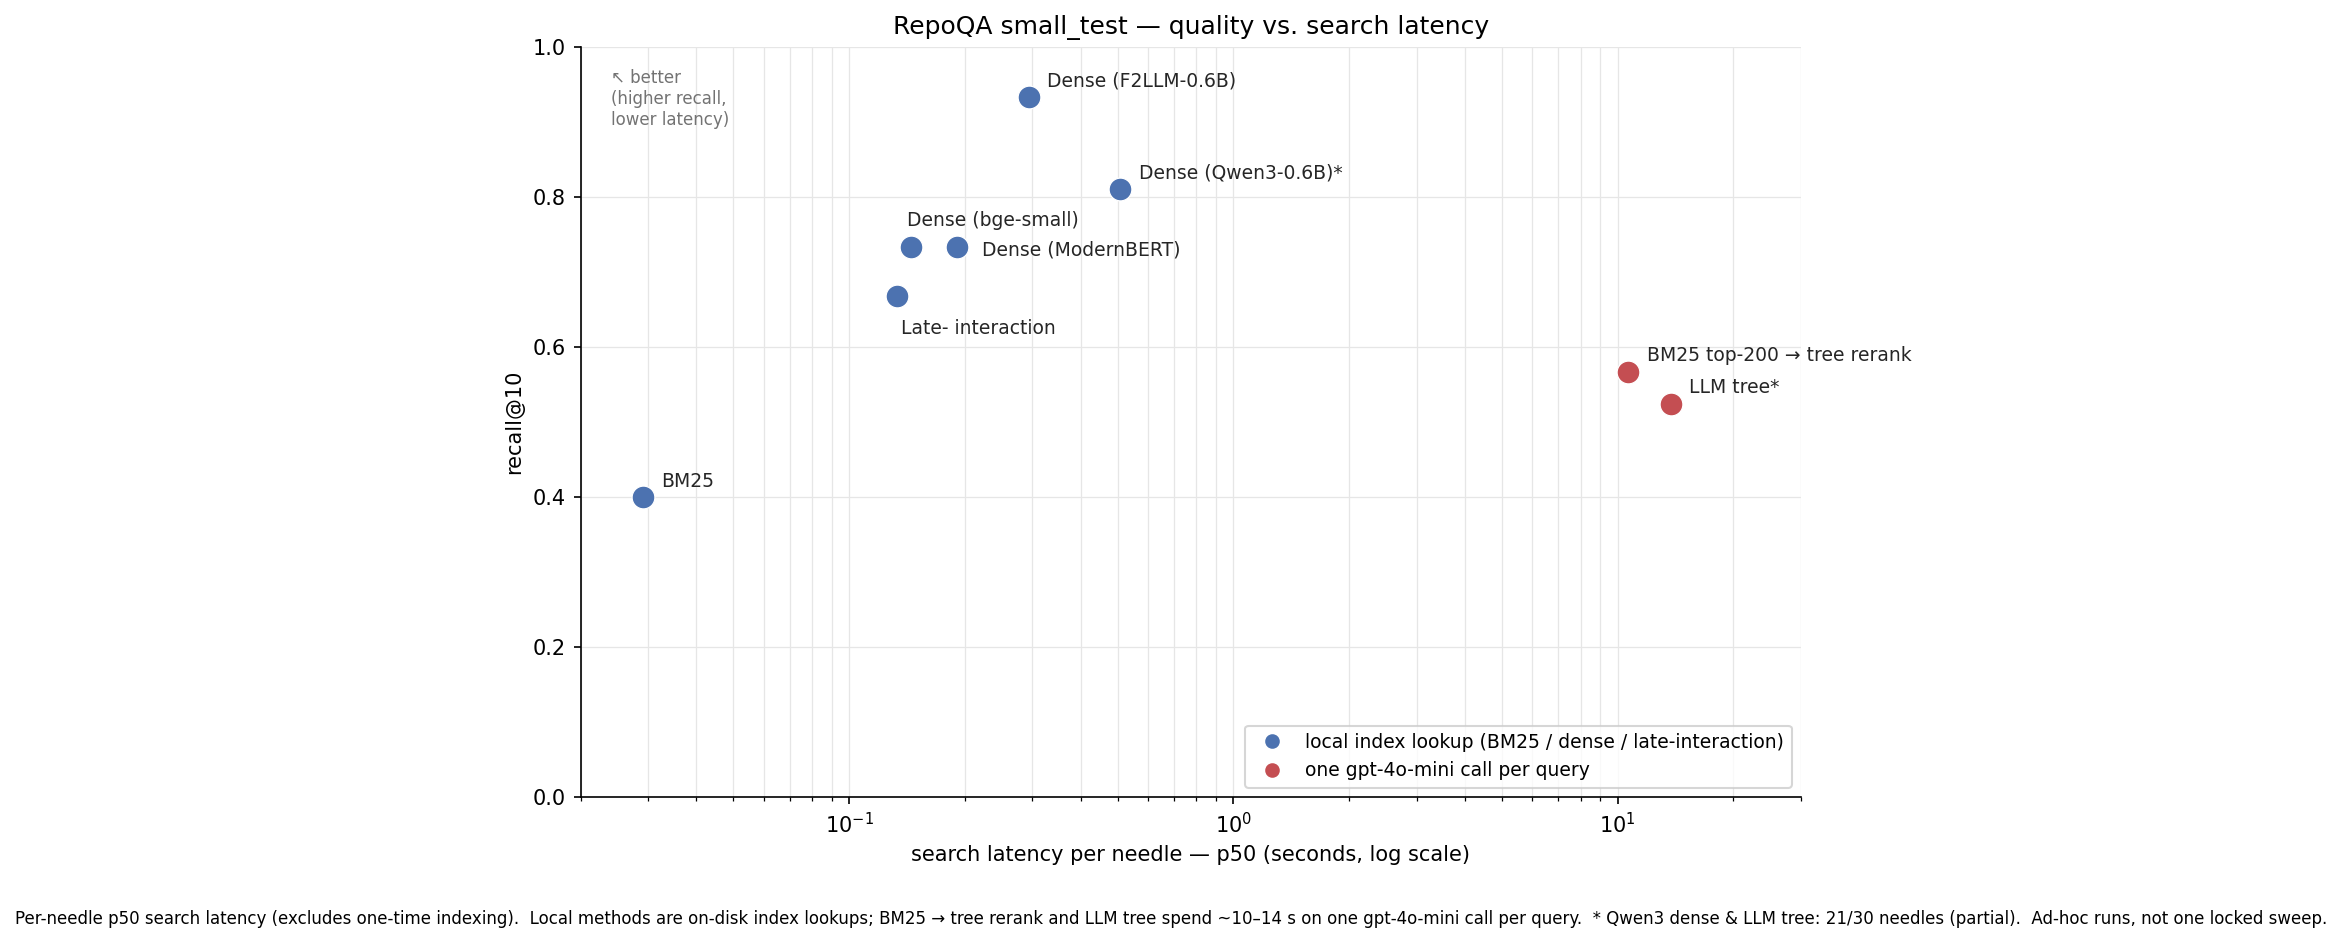
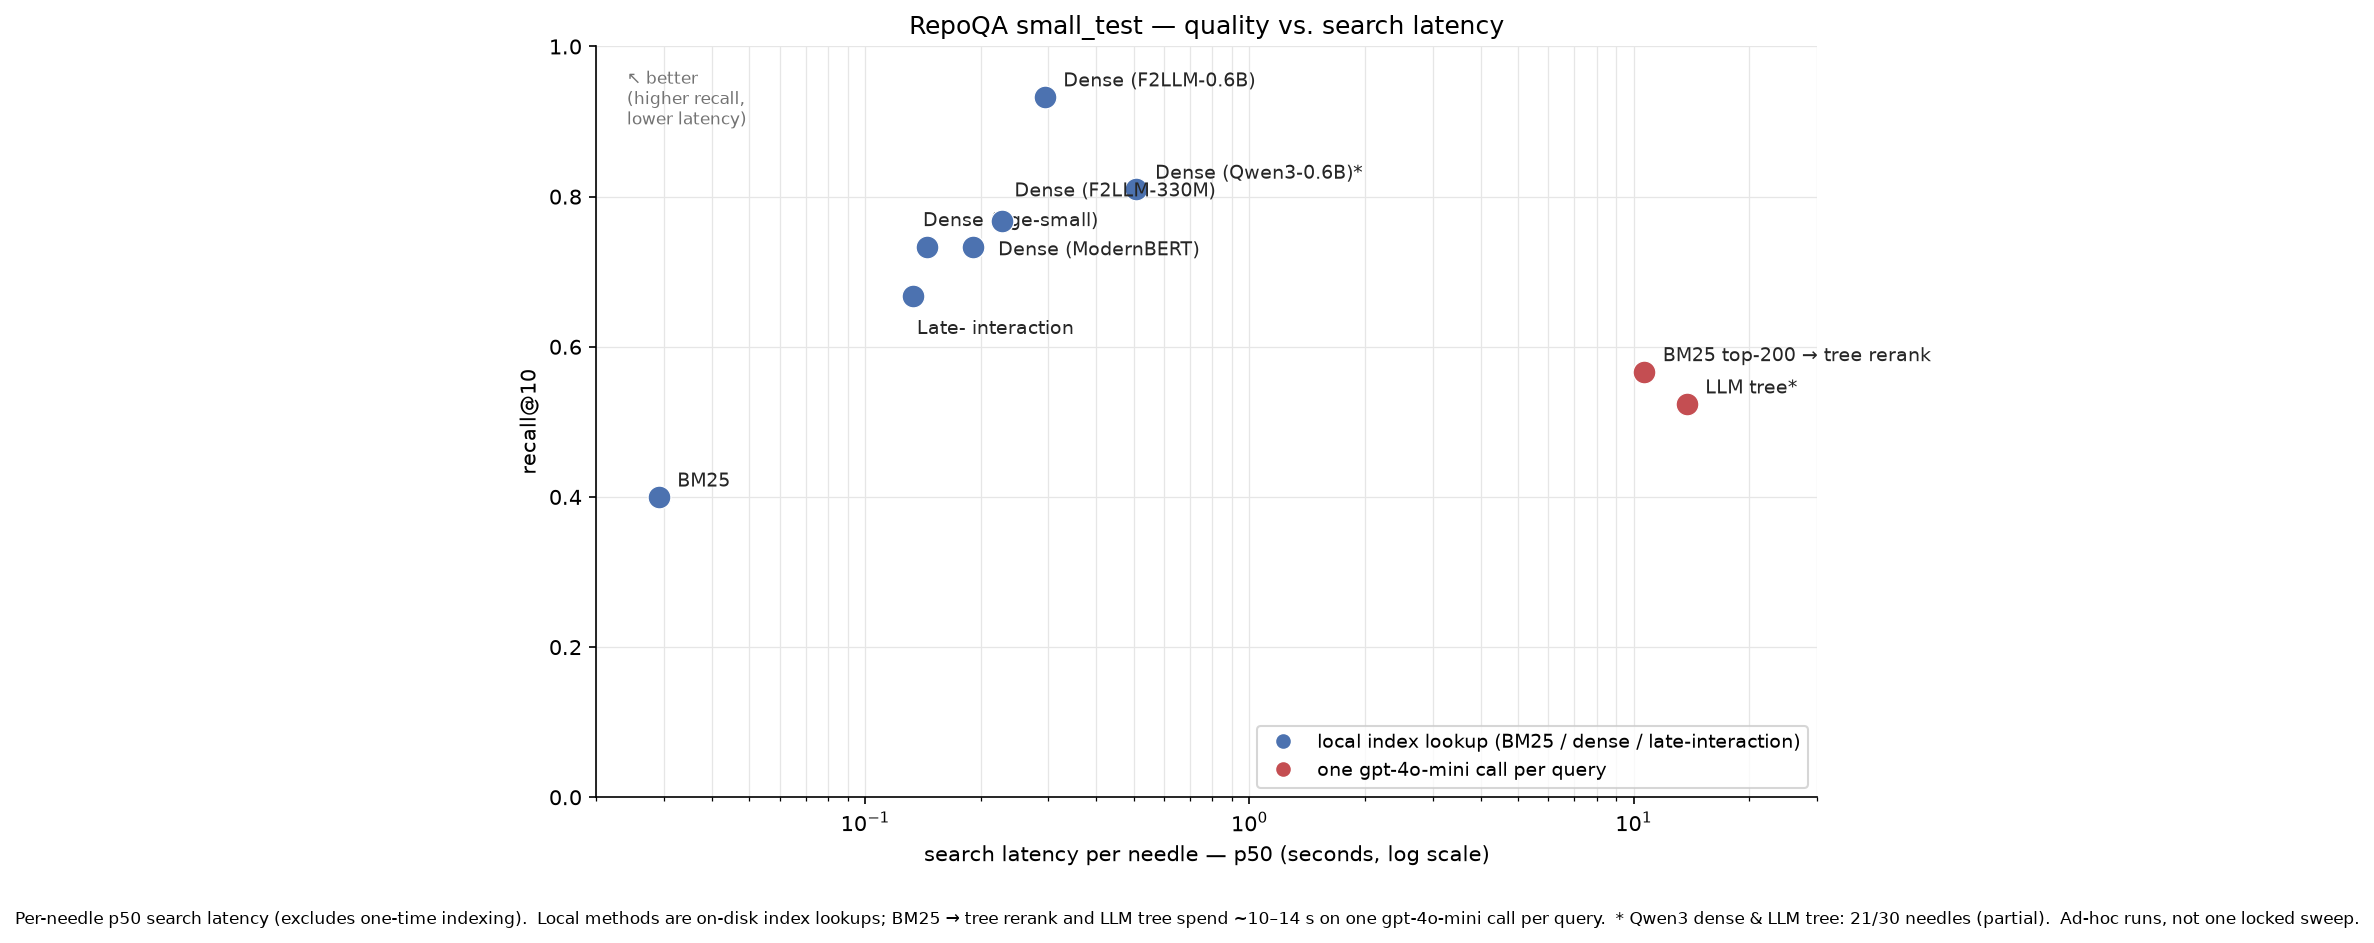
feat(benchmarks): add F2LLM-v2-330M dense + hybrid RepoQA configs and leaderboard
Benchmark the smaller code-specialized embedder codefuse-ai/F2LLM-v2-330M
(896-dim) against the existing dense baselines on RepoQA small_test.

- config: register F2LLM-v2-330M (dim 896) in _KNOWN_MODEL_DIMS
- configs: add pure-dense repoqa_dense_f2llm_330m.yaml + 6 hybrid F2LLM-330M
  configs (RRF k30/60/100, WSI bm25/balanced/dense)
- scripts: add run_eval_gpu.sh GPU eval wrapper
- README: add the Dense (F2LLM-v2-330M, 896-d) row to both Method-comparison
  tables (recall@1 0.70 / recall@10 0.77, p50 0.23s), footnote, and a
  "Model size matters for F2LLM" takeaway
- plots: add the 330M point to plot_method_comparison.py DATA (+ label
  de-collision) and regenerate the two assets/ figures
- gitignore: benchmarks/logs/ (run logs) and docs/_build/ (Sphinx output)

Result: 330M trails its 0.6B sibling (0.90/0.93) by ~0.16 recall@10 but still
beats Qwen3-0.6B and gte-modernbert at recall@1; pure dense beats every 330M
hybrid variant (BM25 only adds noise vs the strong dense branch).

diff --git a/benchmarks/scripts/plot_method_comparison.py b/benchmarks/scripts/plot_method_comparison.py
@@ -39,6 +39,7 @@ DATA: list[tuple[str, float, float, float, bool, float]] = [
     ("Dense\n(bge-small)", 0.467, 0.733, 0.733, False, 0.145),
     ("Dense\n(ModernBERT)", 0.533, 0.733, 0.733, False, 0.191),
     ("Dense\n(Qwen3-0.6B)*", 0.667, 0.810, 0.810, True, 0.508),
+    ("Dense\n(F2LLM-330M)", 0.700, 0.767, 0.767, False, 0.227),
     ("Dense\n(F2LLM-0.6B)", 0.900, 0.900, 0.933, False, 0.293),
     ("Late-\ninteraction", 0.500, 0.633, 0.667, False, 0.133),
     ("LLM tree*", 0.333, 0.524, 0.524, True, 13.717),
@@ -52,8 +53,8 @@ _BAR_FOOTNOTE = (
     "comparable to the full-30 methods.  BM25 → tree rerank is two-stage: the LLM "
     "(gpt-4o-mini) re-ranks BM25's top-200 candidate pool (k=200), so its recall@10 "
     "can exceed BM25's own top-10.  LLM tree also uses gpt-4o-mini.  onnx removed.  "
-    "ModernBERT & F2LLM: full-30, GPU sentence-transformers (2048-token cap); "
-    "F2LLM-v2-0.6B is the code-specialized leader."
+    "ModernBERT & both F2LLM sizes: full-30, GPU sentence-transformers (2048-token "
+    "cap); F2LLM-v2-0.6B is the code-specialized leader, F2LLM-v2-330M its lighter sibling."
 )
 _SCATTER_FOOTNOTE = (
     "Per-needle p50 search latency (excludes one-time indexing).  Local methods are "
@@ -115,6 +116,7 @@ def _render_bars() -> Path:
 _LABEL_OFFSETS: dict[str, tuple[int, int]] = {
     "Dense (bge-small)": (-2, 10),
     "Dense (ModernBERT)": (12, -4),
+    "Dense (F2LLM-330M)": (6, 12),  # lift above the bge-small / ModernBERT cluster
     "Late- interaction": (2, -18),
 }
 _DEFAULT_LABEL_OFFSET = (9, 5)

diff --git a/python/pydocs_mcp/retrieval/config.py b/python/pydocs_mcp/retrieval/config.py
@@ -306,6 +306,7 @@ _KNOWN_MODEL_DIMS: dict[str, int] = {
     "Qwen/Qwen3-Embedding-0.6B": 1024,
     "Alibaba-NLP/gte-modernbert-base": 768,
     "codefuse-ai/F2LLM-v2-0.6B": 1024,
+    "codefuse-ai/F2LLM-v2-330M": 896,
 }
 
 

diff --git a/benchmarks/README.md b/benchmarks/README.md
@@ -259,6 +259,7 @@ in [`notebooks/`](../notebooks/)). Higher is better.
 | Dense (bge-small, 384-d) | `repoqa_dense.yaml` | 0.467 | 0.733 | 0.733 | 0.567 | 30 |
 | Dense (gte-modernbert-base, 768-d) | `repoqa_dense_modernbert.yaml` | 0.533 | 0.733 | 0.733 | 0.601 | 30 |
 | Dense (Qwen3-0.6B, 1024-d) | `repoqa_dense_st.yaml` | 0.667 | 0.810 | 0.810 | 0.738 | 21\* |
+| Dense (F2LLM-v2-330M, 896-d) | `repoqa_dense_f2llm_330m.yaml` | 0.700 | 0.767 | 0.767 | 0.725 | 30 |
 | **Dense (F2LLM-v2-0.6B, 1024-d)** | `repoqa_dense_f2llm.yaml` | **0.900** | **0.900** | **0.933** | **0.906** | 30 |
 | Late-interaction (ColBERT / MaxSim) | `repoqa_li.yaml` | 0.500 | 0.633 | 0.667 | 0.549 | 30 |
 | LLM tree reasoning (gpt-4o-mini) | `repoqa_tree.yaml` | 0.333 | 0.524 | 0.524 | 0.398 | 21\* |
@@ -268,9 +269,9 @@ in [`notebooks/`](../notebooks/)). Higher is better.
 > not a single locked sweep; regenerate a clean, comparable sweep with the
 > commands in [§Running the benchmarks](#running-the-benchmarks). The `onnx`
 > dense provider was removed; `li_edge` only has a partial run and is omitted.
-> **gte-modernbert-base** and **F2LLM-v2-0.6B** are full-30 runs served on GPU via
-> sentence-transformers (2048-token cap, `batch_size: 4` for the 0.6B models), each
-> in a dedicated process so CUDA memory is freed between embedders.
+> **gte-modernbert-base**, **F2LLM-v2-330M**, and **F2LLM-v2-0.6B** are full-30 runs
+> served on GPU via sentence-transformers (2048-token cap, `batch_size: 4` for the
+> F2LLM models), each in a dedicated process so CUDA memory is freed between embedders.
 > **BM25 → tree rerank** is the lone two-stage method: the LLM (gpt-4o-mini)
 > re-ranks BM25's **top-200** candidate pool (`k=200`), which is why its recall@10
 > can exceed BM25's own top-10; the rest are single-stage. (LLM tree also uses
@@ -289,6 +290,13 @@ expensive (one LLM call per query). **BM25 → tree rerank** roughly doubles BM2
 recall@1 (0.17 → 0.33) and lifts recall@5 to 0.57 by re-ranking BM25's top-200
 candidate pool (`k=200`) with gpt-4o-mini — reaching tree-reasoning quality, still behind dense.
 
+**Model size matters for F2LLM.** The smaller **F2LLM-v2-330M** (896-d) lands at
+recall@1 **0.70** / recall@10 **0.77** (MRR 0.73) — clearly below its 0.6B sibling
+(0.90 / 0.93) but still topping the general-purpose **Qwen3-0.6B** and
+**gte-modernbert-base** at recall@1, at a slightly lower search latency (0.23s p50).
+So the code-specialized family wins at both sizes, but ~half the parameters costs
+~0.16 recall@10 here.
+
 #### Quality vs. search latency
 
 ![recall@10 vs. p50 search latency by retrieval method](assets/method_quality_vs_latency.png)
@@ -302,6 +310,7 @@ indexing), from each run's per-task `search_seconds`:
 | Late-interaction | 0.667 | 0.13s |
 | Dense (bge-small) | 0.733 | 0.15s |
 | Dense (ModernBERT) | 0.733 | 0.19s |
+| Dense (F2LLM-330M) | 0.767 | 0.23s |
 | Dense (F2LLM-0.6B) | 0.933 | 0.29s |
 | Dense (Qwen3-0.6B) | 0.810 | 0.51s |
 | BM25 → tree rerank | 0.567 | 10.6s |